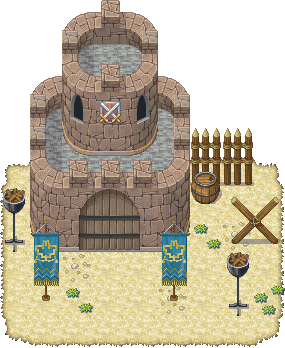
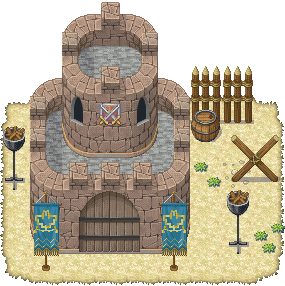
barrack png termine

diff --git a/src/model/Barrack.java b/src/model/Barrack.java
@@ -14,6 +14,7 @@ public class Barrack extends ProductionBuilding{
 
 	public Barrack(Plateau plateau, Game g, float f, float h) {
 		teamCapturing= 0;
+		this.animation=-1f;
 		team = 0;
 		constructionPhase = false;
 		destructionPhase = true;
@@ -31,10 +32,10 @@ public class Barrack extends ProductionBuilding{
 		p.g.idBuilding+=1;
 		this.x = f;
 		this.y = h;
-		this.sizeX = 120f; 
-		this.sizeY = 120f;
-		this.collisionBox= new Rectangle(x-sizeX/2f,y-sizeY,sizeX,sizeY);
-		this.image = this.p.images.tent;
+		this.sizeX = 285f; 
+		this.sizeY = 348f/2f;
+		this.collisionBox= new Rectangle(x-sizeX/2f,y-sizeY/2f,sizeX,sizeY);
+		this.image = this.p.images.buildingBarrackNeutral;
 		// List of potential production (Spearman
 		this.queue = new Vector<Integer>();
 		this.productionTime = new Vector<Float>();
@@ -61,9 +62,9 @@ public class Barrack extends ProductionBuilding{
 		this.y = ocb.y;
 		this.id = ocb.id;
 		this.sizeX = 285f; 
-		this.sizeY = 174f;
+		this.sizeY = 285f*2f/3f;
 		this.collisionBox= new Rectangle(x-sizeX/2f,y-sizeY,sizeX,sizeY);
-		this.image = this.p.images.tent;
+		this.image = this.p.images.buildingBarrackNeutral;
 		// List of potential production (Spearman
 		this.queue = new Vector<Integer>();
 		this.productionTime = new Vector<Float>();
@@ -91,6 +92,9 @@ public class Barrack extends ProductionBuilding{
 			if(!this.isProducing){
 				this.isProducing = true;
 			}
+			this.animation+=3f;
+			if(animation>120f)
+				animation = 0f;
 			this.charge+=0.1f;
 			if(this.charge>=this.productionTime.get(this.queue.get(0))){
 				this.charge=0f;
@@ -98,24 +102,34 @@ public class Barrack extends ProductionBuilding{
 				this.queue.remove(0);
 				if(this.queue.size()==0){
 					this.isProducing =false;
+					this.animation = -1f;
 				}
 			}
 		}
 		else if(this.isProducing){
 			this.isProducing = false;
+			this.animation = -1f;
 		}
 		// if reach production reset and create first unit in the queue
 		
 		if(this.lifePoints<10f){
 
 			this.team = this.teamCapturing;
+			if(this.team==1)
+				this.image = this.p.images.buildingBarrackBlue;
+			if(this.team==2)
+				this.image = this.p.images.buildingBarrackRed;
 			this.lifePoints=this.maxLifePoints;
 			this.constructionPhase = true;
 		}
 	}
 	public Graphics draw(Graphics g){
 		float r = collisionBox.getBoundingCircleRadius();
-		g.drawImage(this.image, this.x-this.sizeX/2, this.y-this.sizeY*3f/4f, this.x+this.sizeX/2f, this.y+this.sizeY/4f, 0, 0, 285, 348);
+		g.drawImage(this.image, this.x-this.sizeX/2, this.y-this.sizeY, this.x+this.sizeX/2f, this.y+this.sizeY/2f, 0, 0, 285, 285);
+		if(animation>=0f){
+			g.drawImage(this.p.images.fire, this.x+5f/18f*sizeX, this.y-24f,this.x+5f/18f*sizeX+32f, this.y+24f, (int)(animation/30f)*32, 96, ((int)(animation/30f)+1)*32, 144);
+			g.drawImage(this.p.images.fire, this.x-9f/18f*sizeX-2f, this.y-84f,this.x-9f/18f*sizeX+32f-2f, this.y-36f, (int)(animation/30f)*32, 96, ((int)(animation/30f)+1)*32, 144);
+		}
 		//g.drawImage(this.image,this.getX()-sizeX/2f,this.getY()-sizeY,this.getX()+sizeX/2f,this.getY()+1f*sizeY/6f,0f,0f,this.image.getWidth(),this.image.getHeight());
 		if(this.lifePoints<this.maxLifePoints){
 			// Lifepoints

diff --git a/src/model/Character.java b/src/model/Character.java
@@ -48,7 +48,7 @@ public class Character extends ActionObjet{
 		this.maxLifePoints = 100f;
 		this.p = p;
 		this.name = "Character";
-		this.sight = 100f;
+		this.sight = 300f;
 		this.id = p.g.idChar;
 		p.g.idChar+=1;
 		this.selection_circle = this.p.images.selection_circle;
@@ -524,17 +524,17 @@ public class Character extends ActionObjet{
 		y = this.getY();
 		int sector = 0;
 		if(x-oX>0f){
-			if(y-oY>Math.abs(x-oX)){
+			if(y-oY>Math.abs(x-oX)*o.getHeight()/o.getWidth()){
 				sector = 2;
-			} else if(y-oY<-Math.abs(x-oX)){
+			} else if(y-oY<-Math.abs(x-oX)*o.getHeight()/o.getWidth()){
 				sector = 4;
 			} else {
 				sector = 1;
 			}
 		} else {
-			if(y-oY>Math.abs(x-oX)){
+			if(y-oY>Math.abs(x-oX)*o.getHeight()/o.getWidth()){
 				sector = 2;
-			} else if(y-oY<-Math.abs(x-oX)){
+			} else if(y-oY<-Math.abs(x-oX)*o.getHeight()/o.getWidth()){
 				sector = 4;
 			} else {
 				sector = 3;

diff --git a/src/model/Map.java b/src/model/Map.java
@@ -19,10 +19,10 @@ public class Map {
 			}
 			plateau.g.players.get(0).groups.get(i).add(team[i]);
 		}
+		Character.createBowman(plateau, 2, 101f, 100f);
+		Character.createBowman(plateau, 2, 102f, 100f);
 		Character.createBowman(plateau, 2, 100f, 100f);
-		Character.createBowman(plateau, 2, 100f, 100f);
-		Character.createBowman(plateau, 2, 100f, 100f);
-		Character.createBowman(plateau, 2, 100f, 100f);
+		Character.createBowman(plateau, 2, 103f, 100f);
 //	
 //		for(int i = 0;i<9; i++){
 //			new Water(395f+32*i,570f,32f,32f,plateau);
@@ -40,8 +40,8 @@ public class Map {
 
 
 		new Barrack(plateau,plateau.g,520f,700f);
-		Barrack test = new Barrack(plateau,plateau.g,720f,700f);
-		test.team = 2;
+		//Barrack test = new Barrack(plateau,plateau.g,720f,700f);
+		//test.team = 2;
 	}
 
 	public void createMap2(Plateau plateau){

diff --git a/src/model/Images.java b/src/model/Images.java
@@ -16,6 +16,7 @@ public class Images {
 	Image cursor;
 	Image selection_circle;
 	Image fog;
+	Image fire;
 	Image windmill;
 	Image windmillarms;
 	
@@ -72,6 +73,7 @@ public class Images {
 			this.water = new Image("pics/water.jpg");
 			this.cursor = new Image("pics/cursor.png");
 			this.fog = new Image("pics/fog.png");
+			this.fire = new Image("pics/fire.png");
 			this.windmill = new Image("pics/windmill.png");
 			this.windmillarms = new Image("pics/windmillarms.png");
 			
